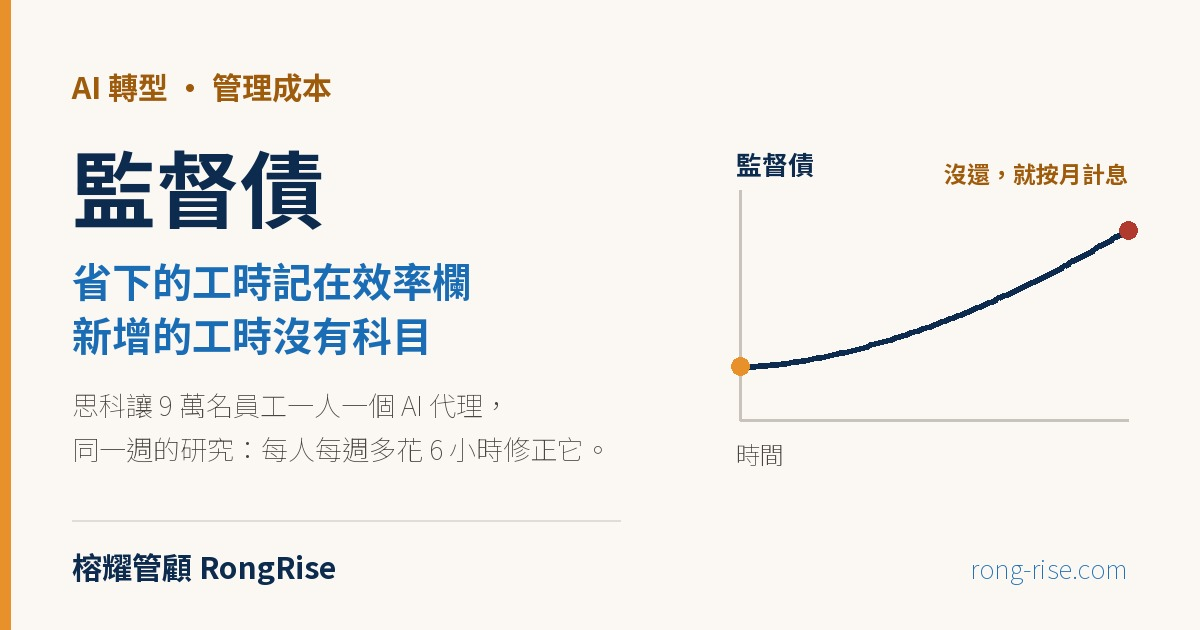
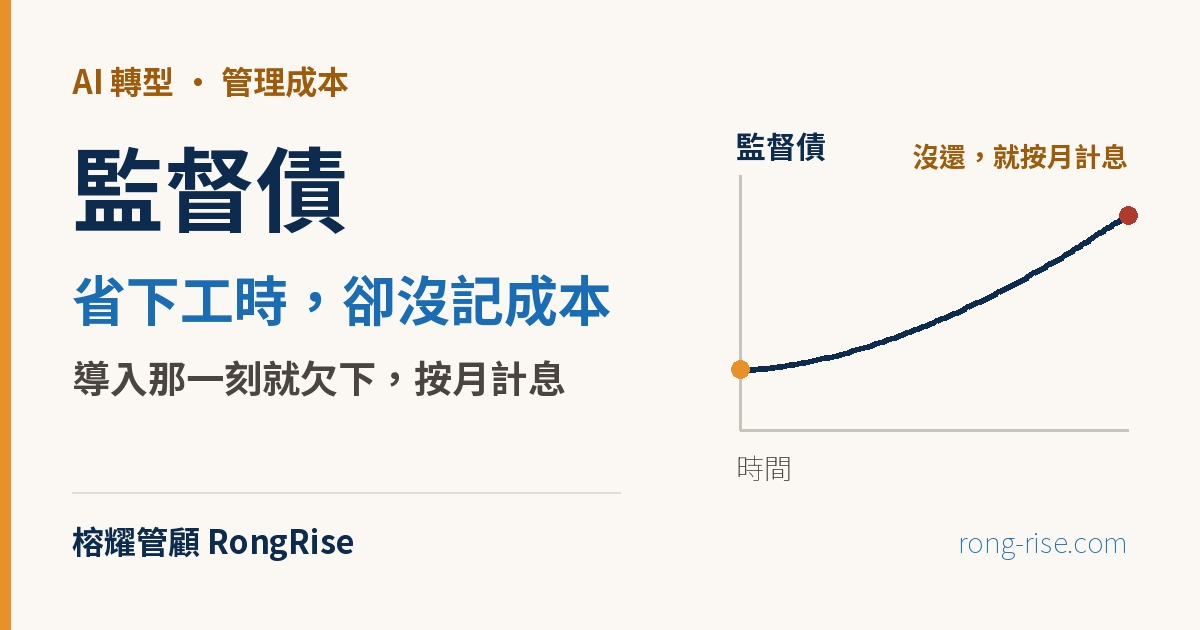
fix(about): 更新創辦人影片區為近期同主題影片（中英同步）
- 舊三支為 2026-06 初影片，且網頁標題與實際影片標題不符（張冠李戴）
- 換為近期管理/人才主題：AI 員工管理、心理安全感、團隊真實使用度
- 同步更新 youtube-videos.json（首頁動態輪播用）與監督債封面圖

diff --git a/src/app/en/about/page.tsx b/src/app/en/about/page.tsx
@@ -103,9 +103,9 @@ export default function AboutEnPage() {
           </div>
           <div className="grid grid-cols-1 md:grid-cols-3 gap-6 max-w-5xl mx-auto">
             {[
-              { id: "-Lp7k92d7C8", title: "AI Talent Strategy: From Anxiety to Empowerment", date: "2026.06.04" },
-              { id: "UoR9Jd4Ks5I", title: "SME ESG Transformation: A Practical Guide", date: "2026.06.02" },
-              { id: "AsyKniCNofU", title: "AI Transformation: From Strategy to Execution", date: "2026.06.01" },
+              { id: "VPO7VgKL8xg", title: "Managing Five AI Employees on My Own: The Bottleneck Isn't Technology, It's Management", date: "2026.09.11" },
+              { id: "9jmqiPWGbeo", title: "Why Your AI Project Died: Three Things Employees Never Dared to Say | Psychological Safety × AI", date: "2026.07.31" },
+              { id: "M4N2pf8UF5Y", title: "63% of Employees Pretend to Understand AI: Is Your Team Performing or Actually Using It?", date: "2026.08.05" },
             ].map((video) => (
               <a
                 key={video.id}

diff --git a/src/app/about/page.tsx b/src/app/about/page.tsx
@@ -261,9 +261,9 @@ export default function AboutPage() {
           </div>
           <div className="grid grid-cols-1 md:grid-cols-3 gap-6 max-w-5xl mx-auto">
             {[
-              { id: "-Lp7k92d7C8", title: "AI 時代的人才策略：從焦慮到賦能", date: "2026.06.04" },
-              { id: "UoR9Jd4Ks5I", title: "中小企業 ESG 轉型實務攻略", date: "2026.06.02" },
-              { id: "AsyKniCNofU", title: "AI 轉型不是口號：從策略到落地的完整路徑", date: "2026.06.01" },
+              { id: "VPO7VgKL8xg", title: "我一個人管五個 AI 員工：導入 AI 的瓶頸不是技術，是管理", date: "2026.09.11" },
+              { id: "9jmqiPWGbeo", title: "你的 AI 專案，死在員工不敢說出口的三句話｜心理安全感 × AI 落地", date: "2026.07.31" },
+              { id: "M4N2pf8UF5Y", title: "63% 員工假裝懂 AI：你的團隊在「演」還是在「用」？", date: "2026.08.05" },
             ].map((video) => (
               <a
                 key={video.id}
